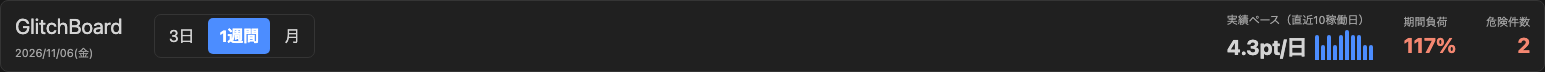
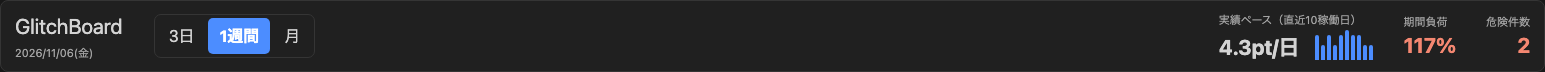
style: increase gap in main layout for improved spacing

Changed region(s): [[0.7767, 0.5278, 0.8699, 0.8333], [0.7767, 0.1944, 0.901, 0.3611]]

diff --git a/packages/webview/src/app/style.css b/packages/webview/src/app/style.css
@@ -508,7 +508,7 @@ main {
   display: flex;
   align-items: end;
   justify-content: flex-end;
-  gap: 8px;
+  gap: 16px;
 }
 .completion-bars {
   display: flex;
